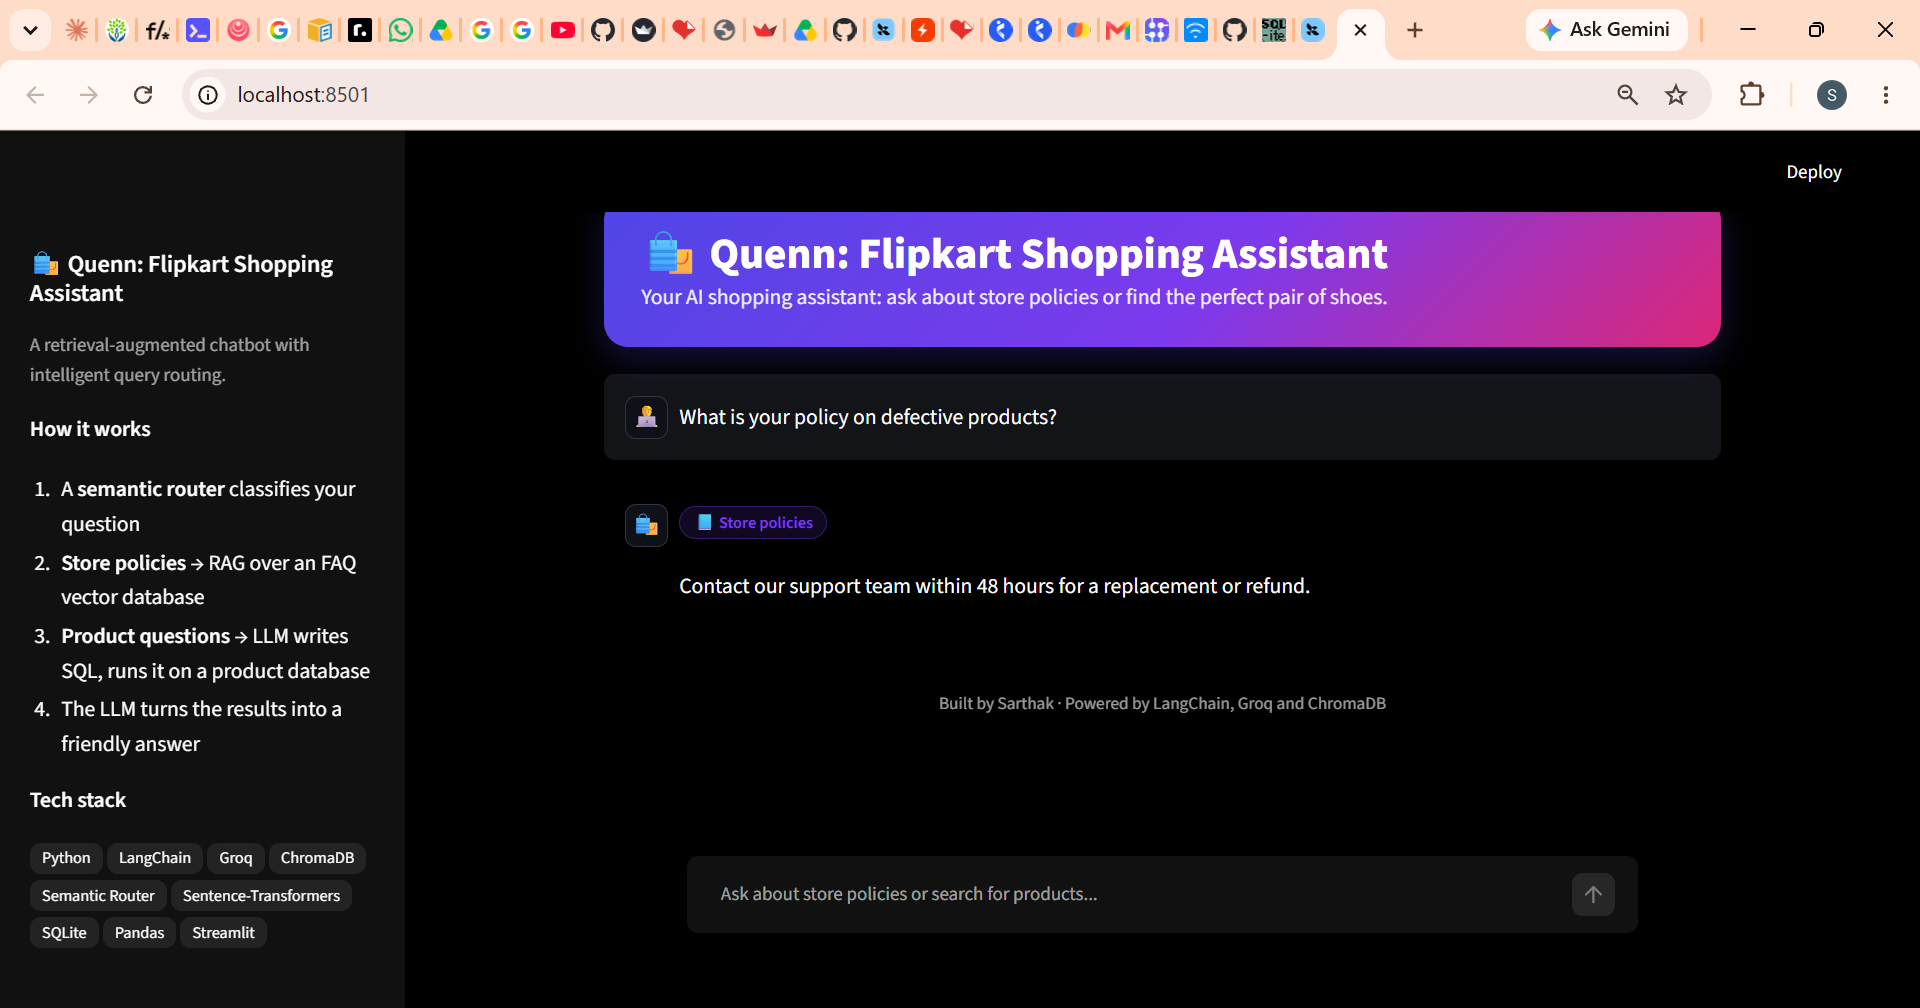
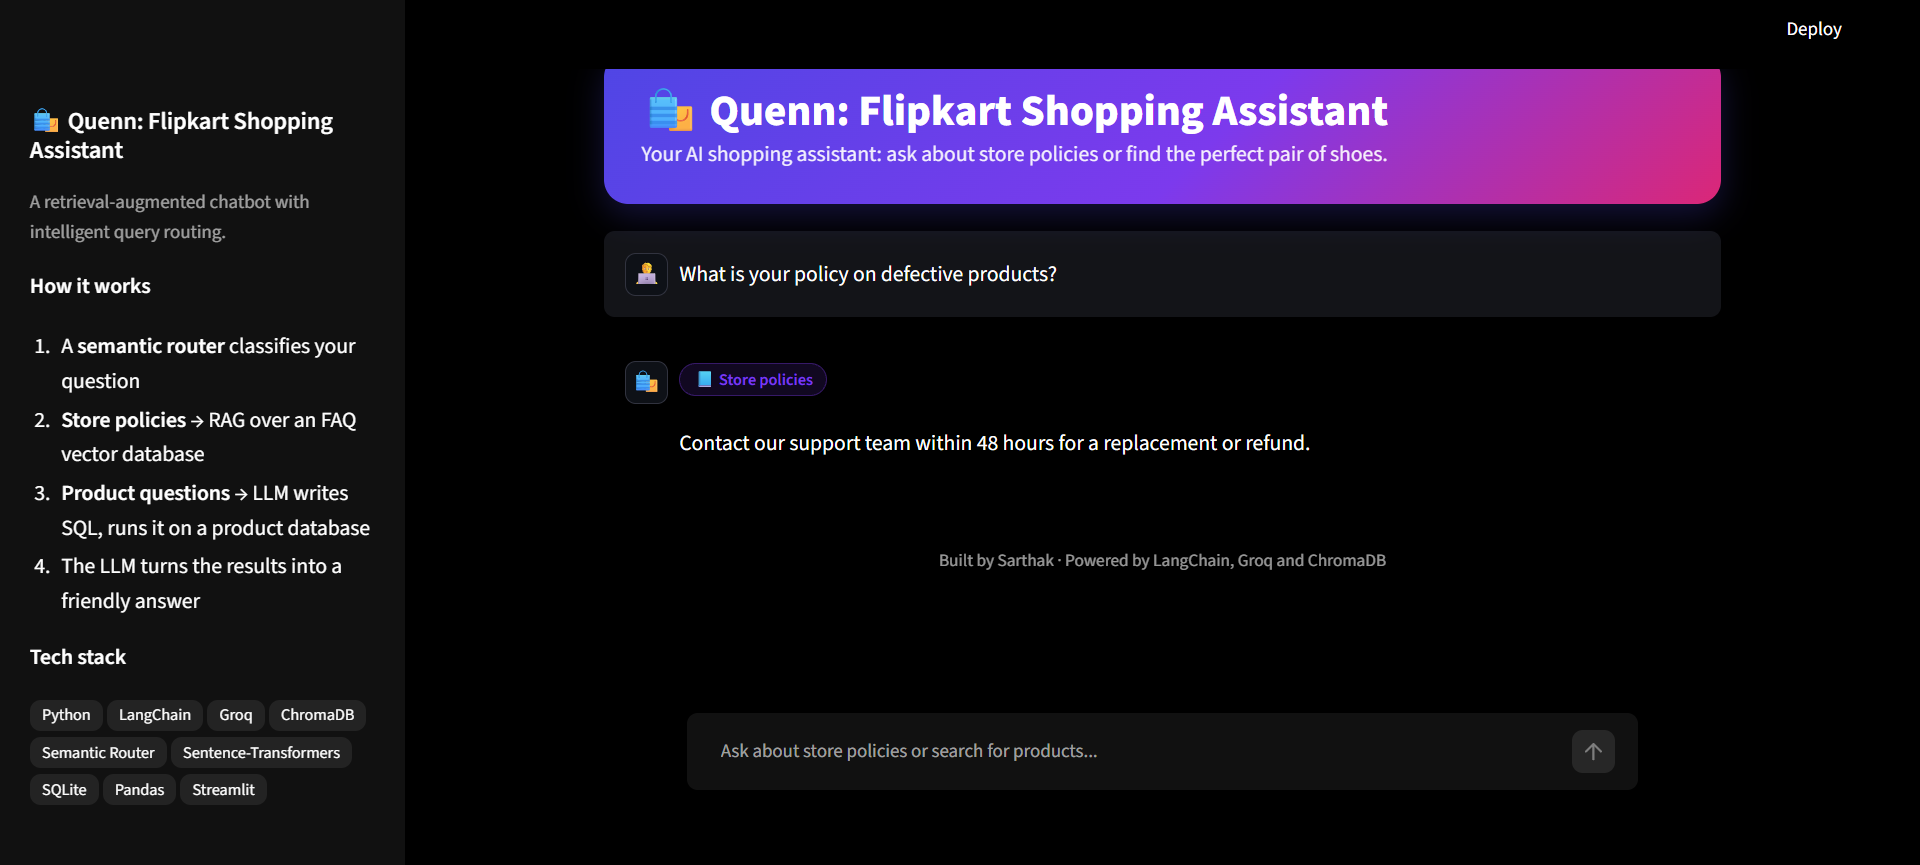
Updated readme and other files

diff --git a/README.md b/README.md
@@ -15,7 +15,7 @@ An AI shopping assistant that answers **store-policy questions** using Retrieval
 - **FAQ answers with RAG:** questions are matched against an FAQ vector database (ChromaDB), and the LLM answers using only the retrieved entries, so it doesn't make up policies.
 
 <p align="center">
-  <img src="app/e_commerce_chatbot/assets/faq functioning.png" alt="Q&A using Retrieval augmented generation" width="70%">
+  <img src="app/e_commerce_chatbot/assets/faq_functioning.png" alt="Q&A using Retrieval augmented generation" width="70%">
 </p>
 
 
@@ -143,4 +143,3 @@ The first run downloads the embedding models and builds the FAQ vector store aut
 ## 👤 Author
  
 **Sarthak**
-[GitHub](https://github.com/your-username) · [LinkedIn](https://www.linkedin.com/in/your-profile)
